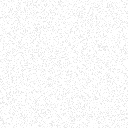
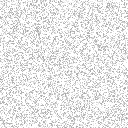
fix(lint): order wording helpers live in src/lib; burgundy Sales card
- The timeline and wording helpers move from features/orders to
  src/lib/orderTimeline.ts: CI's lint forbids importing inside another
  feature, and going through the orders index made import cycles.
- The Sales card is deep burgundy (#5E1626) with white text (13:1), and
  the grain is re-balanced for a dark card so its colour stays the same.

Claude-Session: https://claude.ai/code/session_01Asuy2J8Jd8pXLY1zjPNzi2

diff --git a/src/features/owner/screens/dashboard/HeroCard.tsx b/src/features/owner/screens/dashboard/HeroCard.tsx
@@ -11,10 +11,10 @@ const c = tokens.owner.controls;
 const GRAIN = require('../../../../../assets/images/grain.png');
 
 /**
- * The day's main number on a yellow card, the first thing on Today ("Sales today GH₵1,250").
- * The yellow and its dark text stay the same in dark mode, like a printed card (SALES_CARD).
+ * The day's main number on a deep burgundy card, the first thing on Today ("Sales today
+ * GH₵1,250"). The burgundy and its white text stay the same in dark mode (SALES_CARD).
  * A small pill opens the page behind the number when this person may. A fine grain sits over the
- * yellow for texture (Clarke, 2026-11-17); it is faint, so the text keeps its contrast.
+ * burgundy for texture (Clarke, 2026-11-17); it is faint, so the text keeps its contrast.
  */
 export function HeroCard({
   label,
@@ -59,7 +59,7 @@ export function HeroCard({
             hitSlop={tokens.space[2]}
             style={({ pressed }) => [styles.pill, { opacity: pressed ? 0.7 : 1 }]}
           >
-            {/* A see-through layer of the ink, so the pill reads on the yellow. */}
+            {/* A see-through layer of the ink, so the pill reads on the burgundy. */}
             <View style={[StyleSheet.absoluteFill, styles.pillFill, { backgroundColor: ink }]} />
             <Text variant="caption" style={[styles.pillText, { color: ink }]}>
               {link}

diff --git a/src/theme/palette.ts b/src/theme/palette.ts
@@ -20,10 +20,10 @@ export const QR_PAPER = '#FFFFFF';
 export const QR_INK = '#111111';
 
 /**
- * The Sales card on Today: Clarke's yellow (2026-11-17), with near-black text on it in both
- * schemes. Black on this yellow is about 13:1, far past the 4.5:1 text needs.
+ * The Sales card on Today: a deep burgundy (Clarke, 2026-11-17) with white text, the same in
+ * both schemes. White on this burgundy is about 13:1, far past the 4.5:1 text needs.
  */
-export const SALES_CARD = { fill: '#FFC501', ink: '#111111' } as const;
+export const SALES_CARD = { fill: '#5E1626', ink: '#FFFFFF' } as const;
 
 /** Venue colours offered in Branding (canvas). Names come from ownerBranding.swatch.<id>. */
 export const VENUE_SWATCHES = [

diff --git a/src/features/owner/screens/orders/useOrderMove.ts b/src/features/owner/screens/orders/useOrderMove.ts
@@ -3,7 +3,7 @@ import { useTranslation } from 'react-i18next';
 import { api } from '@/lib/api';
 import { nextOrderMove, type OrderStatus, type StaffRole } from '@/features/orders';
 import type { Order } from '@/lib/api/types';
-import { finishWord, statusKey } from '@/features/orders/guestTimeline';
+import { finishWord, statusKey } from '@/lib/orderTimeline';
 import { invalidateOwnerQueries } from '../../data/invalidateOwnerQueries';
 import { ownerKeys } from '../../data/keys';
 import { toast } from '../../kit';

diff --git a/src/features/orders/StatusTimeline.tsx b/src/features/orders/StatusTimeline.tsx
@@ -9,7 +9,7 @@ import {
   type LucideIcon,
 } from 'lucide-react-native';
 import type { Order } from '@/lib/api/types';
-import { finishWord, TIMELINE, timelineSteps } from './guestTimeline';
+import { finishWord, TIMELINE, timelineSteps } from '@/lib/orderTimeline';
 import { tokens } from '@/theme/tokens';
 import { Text } from '@/ui/Text';
 import { fontFamily, useTheme } from '@/ui/theme';

diff --git a/src/features/owner/screens/orders/OrderDetailScreen.tsx b/src/features/owner/screens/orders/OrderDetailScreen.tsx
@@ -1,5 +1,5 @@
 import { useState } from 'react';
-import { finishWord } from '@/features/orders/guestTimeline';
+import { finishWord } from '@/lib/orderTimeline';
 import { StyleSheet, View } from 'react-native';
 import { useMutation, useQuery, useQueryClient } from '@tanstack/react-query';
 import { useRouter } from 'expo-router';

diff --git a/src/features/history/ActiveOrderStrip.tsx b/src/features/history/ActiveOrderStrip.tsx
@@ -1,5 +1,5 @@
 import { Pressable, StyleSheet, View } from 'react-native';
-import { statusKey } from '@/features/orders/guestTimeline';
+import { statusKey } from '@/lib/orderTimeline';
 import { useRouter } from 'expo-router';
 import { useQuery } from '@tanstack/react-query';
 import { useTranslation } from 'react-i18next';

diff --git a/src/features/history/MyOrdersScreen.tsx b/src/features/history/MyOrdersScreen.tsx
@@ -1,5 +1,5 @@
 import { useEffect } from 'react';
-import { statusKey } from '@/features/orders/guestTimeline';
+import { statusKey } from '@/lib/orderTimeline';
 import { Pressable, ScrollView, StyleSheet, View } from 'react-native';
 import { useRouter } from 'expo-router';
 import { useQuery } from '@tanstack/react-query';

diff --git a/src/features/owner/screens/orders/OrderHead.tsx b/src/features/owner/screens/orders/OrderHead.tsx
@@ -1,5 +1,5 @@
 import { StyleSheet, View } from 'react-native';
-import { statusKey } from '@/features/orders/guestTimeline';
+import { statusKey } from '@/lib/orderTimeline';
 import { useTranslation } from 'react-i18next';
 import type { Order } from '@/lib/api/types';
 import type { StatusTone } from '@/theme/palette';

diff --git a/src/features/owner/screens/orders/OrderCard.tsx b/src/features/owner/screens/orders/OrderCard.tsx
@@ -1,5 +1,5 @@
 import { useState } from 'react';
-import { statusKey } from '@/features/orders/guestTimeline';
+import { statusKey } from '@/lib/orderTimeline';
 import { Pressable, StyleSheet, View } from 'react-native';
 import { useTranslation } from 'react-i18next';
 import type { Order } from '@/lib/api/types';

diff --git a/src/features/orders/StatusScreen.tsx b/src/features/orders/StatusScreen.tsx
@@ -1,5 +1,5 @@
 import { useEffect } from 'react';
-import { statusKey } from './guestTimeline';
+import { statusKey } from '@/lib/orderTimeline';
 import { ScrollView, StyleSheet, View } from 'react-native';
 import { useRouter } from 'expo-router';
 import { useQuery } from '@tanstack/react-query';

diff --git a/src/lib/orderTimeline.test.ts b/src/lib/orderTimeline.test.ts
@@ -1,4 +1,4 @@
-import { finishWord, statusKey, timelineSteps } from './guestTimeline';
+import { finishWord, statusKey, timelineSteps } from './orderTimeline';
 
 describe('timelineSteps', () => {
   it('ticks a step the moment staff mark it, and highlights the next one', () => {

diff --git a/src/features/notices/guestNotes.ts b/src/features/notices/guestNotes.ts
@@ -1,5 +1,5 @@
 import type { Order, WaiterCall } from '@/lib/api/types';
-import { finishWord } from '@/features/orders/guestTimeline';
+import { finishWord } from '@/lib/orderTimeline';
 
 export type GuestNoteKind =
   | 'order_sent'
